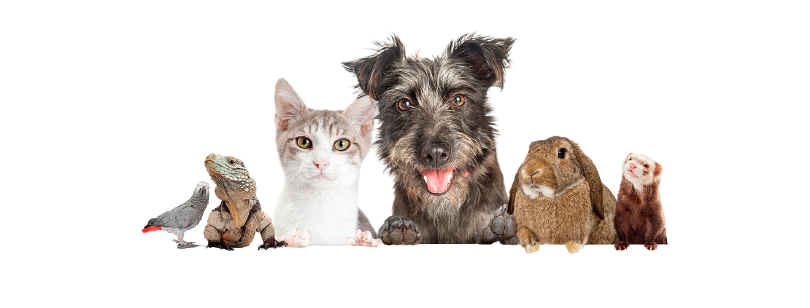
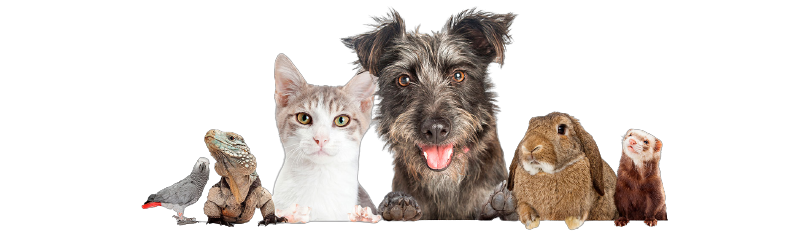
Commit en otra rama

Changed region(s): [[0.1543, 0.0298, 0.8333, 0.983], [0.3395, 0.2085, 0.3704, 0.2979]]

diff --git a/index.html b/index.html
@@ -18,34 +18,34 @@
         </div>
         <nav class="headerMenu">
             <ul>
-                <li><a href="index.html">INICIO</a></li>
-                <li><a href="mascotas.html">MASCOTAS</a></li>
-                <li><a href="veterinarias.html">VETERINARIAS</a></li>
-                <li><a href="contacto.html">CONTACTO</a></li>                
+                <li><a href="index.html" style="color:white">INICIO</a></li>
+                <li><a href="mascotas.html" style="color:white">MASCOTAS</a></li>
+                <li><a href="veterinarias.html" style="color:white">VETERINARIAS</a></li>
+                <li><a href="contacto.html" style="color:white">CONTACTO</a></li>                
             </ul>
         </nav>
     </header>
     <main>
         <div class="contenidoPrincipal">
             <section class="seccionBanner">
-                <img clas="bannerImg" src="img/animalesPng.png" alt="foto mascotas" >
+                <img clas="bannerImg" src="img/mascotas3-sinFondo.png" alt="foto mascotas" >
                 <h3>"Hasta que no hayas amado a un animal, una parte de tu alma permanecerá dormida "</h3> 
                 <h3><i>Anatole France</i></h3>
             </section>
-        </div>
-        <div class="cardMascotas">
+              </div>
+         <div class="cardMascotas">
             <div class="cardCuerpo">
                <img src="img/gatoMascotas1jpg.jpg" alt="gato">
-            </div>
-            <div class="cardTitulo">
+             </div>
+              <div class="cardTitulo">
                 <h3>Gato</h3>
                 <p>Da click y descubri más sobre tu mascota</p>
-            </div>
-            <div class="cardPie">
-              <a href="#">VER MÁS</a>
-            </div>
-        </div>
-        <div class="cardMascotas">
+              </div>
+              <div class="cardPie">
+              <a href="#" style="color:white">VER MÁS</a>
+             </div>
+             </div>
+         <div class="cardMascotas">
             <div class="cardCuerpo">
                 <img id="cardPerro" src="img/perro1.jpg" alt="perro">
             </div>
@@ -54,10 +54,10 @@
                 <p>Da click y descubri más sobre tu mascota</p>
             </div>
             <div class="cardPie">
-              <a href="#">VER MÁS</a>
+              <a href="#" style="color:white">VER MÁS</a>
             </div>
-        </div>
-        <div class="cardMascotas">
+              </div>
+         <div class="cardMascotas">
             <div class="cardCuerpo">
                 <img src="img/cobayo1.jpg" alt="cobayo">
             </div>
@@ -66,13 +66,12 @@
                 <p>Da click y descubri más sobre tu mascota</p>
             </div>
             <div class="cardPie">
-              <a href="#">VER MÁS</a>
+              <a href="#" style="color:white">VER MÁS</a>
             </div>
-        </div>   
-        
+             </div>   
         
     </main>
-    <footer>
+    <footer class="footer">
         <div class="footerAlumnos"> 
         </div>
         <div class="footerRedes">

diff --git a/css/estiloPrincipal.css b/css/estiloPrincipal.css
@@ -6,7 +6,7 @@
 html {
     font-size: 1rem;
     height: 100%;
-     background-color: rgb(247, 235, 203);
+     background-color: rgb(247, 235, 203); 
 }
 
 /* estilos contenido  */
@@ -16,16 +16,16 @@ body, header, main, footer {
     min-height: 50px;
     margin: 0.5rem;
     min-width: 400px;
-    background-color: rgb(247, 235, 203);
+     background-color: rgb(247, 235, 203);
 }
 
 body {
-    background-color:rgb(25, 136, 136);
-    font-family: Helvetica, Arial, sans-serif;
+    /* background-color:rgb(25, 136, 136); */
+    font-family: 'Dancing Script', cursive, Arial, sans-serif;
 }
 
 header, main, footer{
-    background-color:  rgb(240, 238, 232);
+     background-color:  rgb(247, 235, 203); 
 }
 
 main>div {
@@ -55,17 +55,21 @@ section>article {
 /* logo y menu */
 .headerLogo{
     display: inline-block;
+    background-color:#9DC08B;
 
 }
-
+header{
+    background-color:#9DC08B;
+}
 .headerLogo a img{
-    width: 10%;
+    width: 20%;
     /* border: 2px purple solid; */
 }
 .headerNombre {
     /* border: 2px purple solid; */
     position: relative;
     display: inline-block;
+    background-color:#9DC08B;
     
 }
 .headerMenu {
@@ -83,22 +87,24 @@ section>article {
 }
 
 .headerMenu li {
-    background-color:rgb(25, 136, 136);
+    background-color:#9DC08B;
     float: left;
     text-align: center;
-    
+        
     /* margin: 0 0.3rem 0; */
     padding: 0.5rem;
 }
 
 /* card Mascotas */
+
 .cardMascotas {
     width: 415px;
     height: auto;
     /* border: 1px solid lightgray; */
-    background-color:rgba(25, 136, 136, 0.692);
+    background-color:#9DC08B;
     border-radius:15px;
     display: inline-block;
+    margin:40px;
 }
 
 .cardCuerpo img {
@@ -115,17 +121,17 @@ section>article {
     text-align:center;
   }
 .cardPie{
-    background-color:rgb(25, 136, 136);
+    background-color:#609966;
     border-radius:0 0 15px 15px;
     padding: 10px 10px 10px 10px;
     text-align:center;
       }
-
 .seccionBanner img {
     margin: 0;
     width: 100%;
     height: auto;
     /* border: 2px purple solid; */
+    /* background-color: white; */
 }
 
 .seccionBanner h3 {
@@ -133,10 +139,13 @@ section>article {
 }
 
 /* Footer */
+.footer{
+    background-color:#40513B;
+}
 .footerRedes {
     text-align:center;
 }
 
-.footerRedes img{
+/* .footerRedes img{
   background-color: rgb(25, 136, 136);  
-}
+} */
